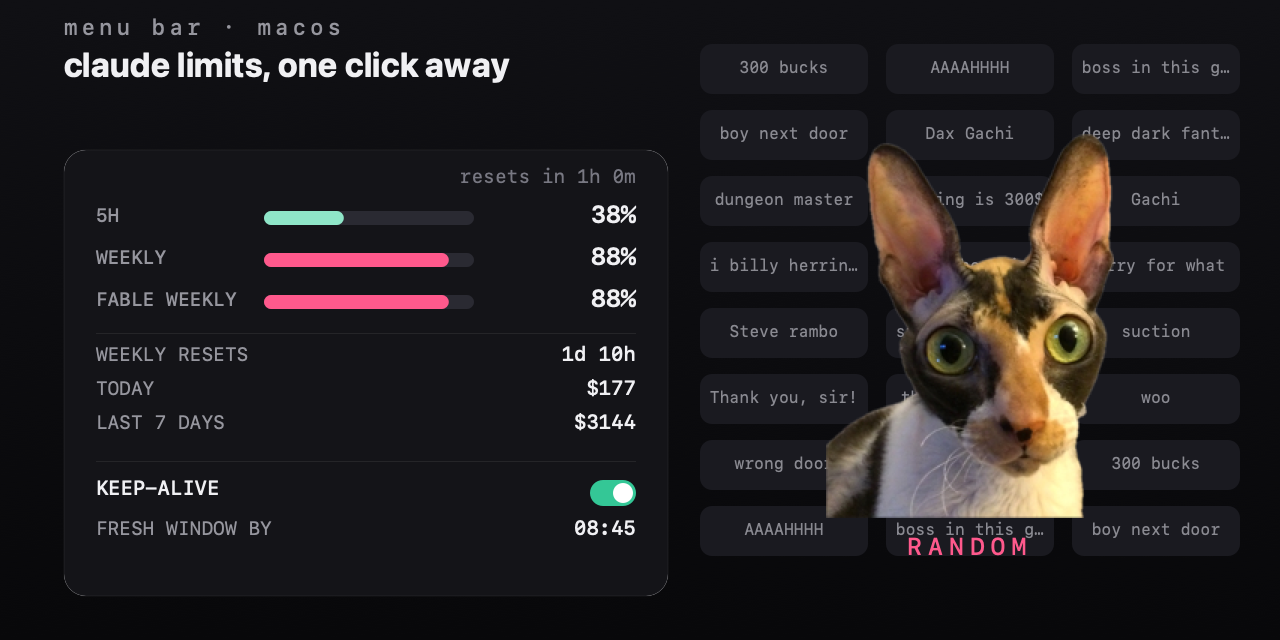
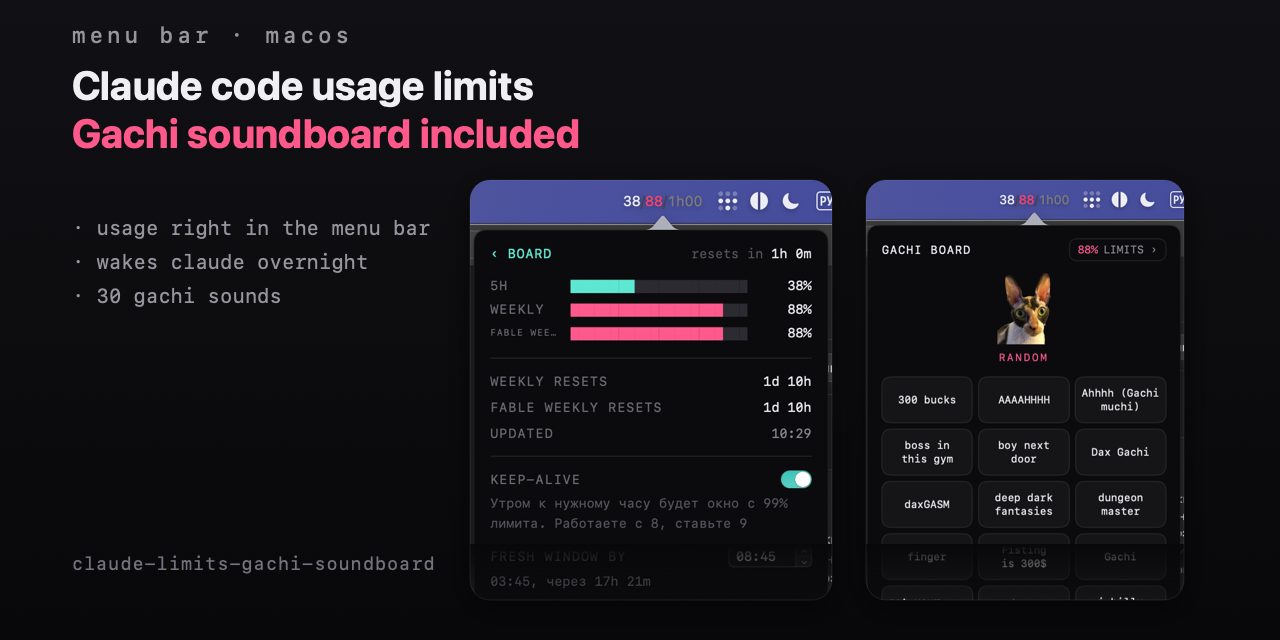
social preview из реальных скринов, двуязычный readme, бейджи, MIT

diff --git a/README.md b/README.md
@@ -1,5 +1,12 @@
 # claude limits gachi soundboard
 
+[![release](https://img.shields.io/github/v/release/marblecake88/claude-limits-gachi-soundboard)](https://github.com/marblecake88/claude-limits-gachi-soundboard/releases)
+[![downloads](https://img.shields.io/github/downloads/marblecake88/claude-limits-gachi-soundboard/total)](https://github.com/marblecake88/claude-limits-gachi-soundboard/releases)
+[![license](https://img.shields.io/github/license/marblecake88/claude-limits-gachi-soundboard)](LICENSE)
+![macos](https://img.shields.io/badge/macos-11%2B-black)
+
+[English below](#english)
+
 Гачи-саундборд в строке меню макоса. Заодно показывает лимиты Claude Code и умеет
 будить Claude ночью, чтобы к твоему пробуждению у тебя было 99% 5часового лимита и час до закрытия окна.
 
@@ -29,3 +36,39 @@
 
 нужен только xcode command line tools, зависимостей нет.
 
+## лицензия
+
+код под MIT, звуки принадлежат их авторам.
+
+---
+
+## English
+
+Gachi soundboard for the macOS menu bar. It also shows your Claude Code limits and wakes
+Claude overnight so by the time you wake up you have 99% of the 5-hour limit and an hour before the window closes.
+
+### what it does
+
+- soundboard: click the cat for a random gachi, or tap a specific one on the grid
+- Claude limits right in the menu bar: 5-hour window, weekly, time to reset
+- keep-alive: starts a claude-code window at the set time, so by your hour you have 99% of the limit
+  and an hour before it closes. you start at 8, set it to 9
+- spend in dollars at API rates, computed locally from transcripts
+
+The menu bar always shows limits. Click opens the board, limits are the second screen.
+Once you open limits, next time it opens straight to them.
+
+### install
+
+grab LimitNotifier.zip from [releases](https://github.com/marblecake88/claude-limits-gachi-soundboard/releases), unzip, drag to /Applications.
+you need Claude Code installed and logged in, the numbers come from it.
+
+### build
+
+    ./make-app.sh release install
+
+only xcode command line tools, no dependencies.
+
+### license
+
+code is MIT, sounds belong to their authors.